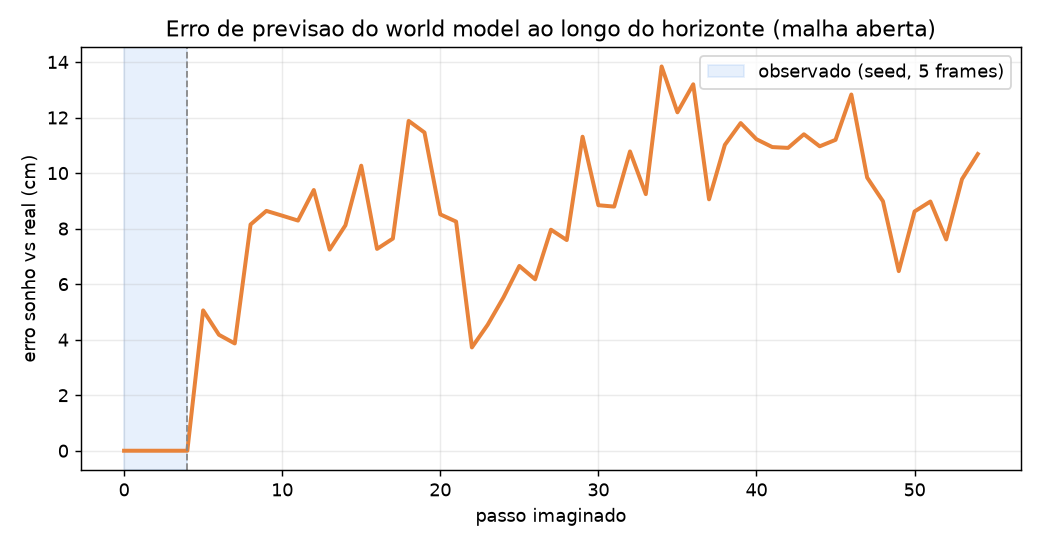
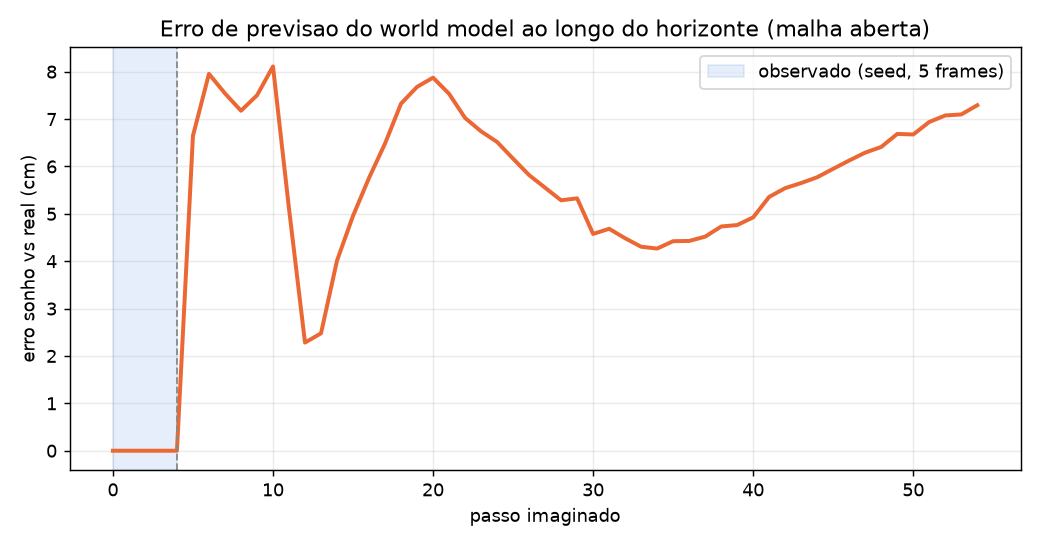
docs(gifs): new gifs

diff --git a/eval/rollout_dreamer.py b/eval/rollout_dreamer.py
@@ -1,0 +1,86 @@
+"""Render the trained Dreamer (world model) policy reaching -> figures/dreamer_ur5e_reach.gif.
+
+Uses a deterministic latent (obs_step sample=False) + action EMA + freeze on
+target, so the rendered arm is smooth (the raw stochastic latent jitters).
+
+Paths via env vars (see dreamer/README.md):
+  WMA_ENVS, WMA_DREAMER, WMA_MENAGERIE, WMA_DREAMER_CKPT
+"""
+import os, sys, argparse, pathlib
+os.environ.setdefault("MUJOCO_GL", "glfw")
+REPO = pathlib.Path(__file__).resolve().parents[1]
+os.environ.setdefault("WMA_ENVS", str(REPO / "envs"))
+DV = os.environ.get("WMA_DREAMER", str(REPO / "dreamerv3-torch"))
+sys.path.insert(0, DV)
+CKPT = pathlib.Path(os.environ.get(
+    "WMA_DREAMER_CKPT", os.path.join(DV, "logdir", "ur5e_state", "ur5e_state_final.pt")))
+
+import numpy as np, torch, mujoco
+import ruamel.yaml as yaml
+from PIL import Image
+import tools
+import envs.ur5e as ur5e
+from dreamer import Dreamer
+
+configs = yaml.safe_load((pathlib.Path(DV) / "configs.yaml").read_text())
+def rupdate(b, u):
+    for k, v in u.items():
+        if isinstance(v, dict) and k in b: rupdate(b[k], v)
+        else: b[k] = v
+defaults = {}
+for name in ["defaults", "ur5e_proprio"]:
+    rupdate(defaults, configs[name])
+p = argparse.ArgumentParser()
+for k, v in sorted(defaults.items()):
+    p.add_argument(f"--{k}", type=tools.args_type(v), default=v)
+config = p.parse_args([]); config.num_actions = 6
+config.device = "cuda" if torch.cuda.is_available() else "cpu"
+dev = config.device
+class DL: step = 0
+
+env = ur5e.UR5eState(seed=5); u = env._u
+agent = Dreamer(env.observation_space, env.action_space, config, DL(), None).to(dev)
+agent.requires_grad_(False)
+agent.load_state_dict(torch.load(CKPT, map_location=dev)["agent_state_dict"])
+agent.eval()
+wm, actor = agent._wm, agent._task_behavior.actor
+blank = np.zeros((16, 16, 3), np.uint8)
+ren = mujoco.Renderer(u.model, 480, 480)
+
+TARGETS = [[0.42, -0.05, 0.40], [0.40, -0.28, 0.30], [0.35, -0.15, 0.38], [0.48, -0.10, 0.34]]
+def batch(o): return {k: np.array([v]) for k, v in o.items()}
+def frame():
+    ren.update_scene(u.data, camera="cam"); return ren.render()
+
+gif, dists = [], []
+for ep in range(4):
+    env.reset()
+    tgt = np.array(TARGETS[ep % len(TARGETS)]); u._target = tgt; u.data.mocap_pos[0] = tgt
+    mujoco.mj_forward(u.model, u.data)
+    obs = env._obs(u._get_obs(), True, False)
+    prev_lat, prev_act = None, torch.zeros(1, 6, device=dev)
+    a_smooth, a_hold, near = None, None, 0
+    with torch.no_grad():
+        for t in range(80):
+            data = wm.preprocess(batch(obs)); embed = wm.encoder(data)
+            lat, _ = wm.dynamics.obs_step(prev_lat, prev_act, embed, data["is_first"], sample=False)
+            a = actor(wm.dynamics.get_feat(lat)).mode()[0].cpu().numpy()
+            a_smooth = a if a_smooth is None else 0.5 * a_smooth + 0.5 * a
+            dist = float(np.linalg.norm(u._ee() - u._target))
+            if dist < 0.05:
+                near += 1
+                if near >= 3 and a_hold is None:
+                    a_hold = a_smooth.copy()
+            else:
+                near = 0; a_hold = None
+            cmd = a_hold if a_hold is not None else a_smooth
+            obs, _, _, _ = env.step(cmd)
+            prev_lat = {k: v.detach() for k, v in lat.items()}
+            prev_act = torch.tensor([cmd], dtype=torch.float32, device=dev)
+            gif.append(Image.fromarray(frame()))
+    dists.append(float(np.linalg.norm(u._ee() - u._target)))
+    print(f"ep {ep}: dist final {dists[-1]:.3f} m")
+
+out = REPO / "figures" / "dreamer_ur5e_reach.gif"
+gif[0].save(out, save_all=True, append_images=gif[1:], duration=55, loop=0)
+print("dist media:", round(float(np.mean(dists)), 3), "m -> saved", out)

diff --git a/eval/rollout_sac.py b/eval/rollout_sac.py
@@ -1,4 +1,8 @@
-"""Render the trained SAC policy reaching on the UR5e -> figures/sac_ur5e_reach.gif."""
+"""Render the trained SAC policy reaching on the UR5e -> figures/sac_ur5e_reach.gif.
+
+Applies action smoothing (EMA) + a freeze once on target, so the rendered arm
+moves smoothly instead of jittering around the goal.
+"""
 import os, sys, pathlib
 os.environ.setdefault("MUJOCO_GL", "glfw")
 REPO = pathlib.Path(__file__).resolve().parents[1]
@@ -8,6 +12,9 @@ from PIL import Image
 from stable_baselines3 import SAC
 from ur5e_reach import UR5eReachEnv
 
+# fixed, camera-facing, reachable targets so the ball is always visible and reached
+TARGETS = [[0.42, -0.05, 0.40], [0.40, -0.28, 0.30], [0.35, -0.15, 0.38], [0.48, -0.10, 0.34]]
+EMA = 0.5                  # light action low-pass (reaches well, less jitter)
 model = SAC.load(str(REPO / "results" / "sac_ur5e"), device="cpu")
 env = UR5eReachEnv()
 m, d = env.unwrapped.model, env.unwrapped.data
@@ -16,18 +23,33 @@ ren = mujoco.Renderer(m, 480, 480)
 def frame():
     ren.update_scene(d, camera="cam"); return ren.render()
 
-gif, dists = [], []
+gif, dists, jitter = [], [], []
 for ep in range(4):
-    obs, _ = env.reset(seed=ep)
+    env.reset(seed=ep)
+    tgt = np.array(TARGETS[ep % len(TARGETS)]); env._target = tgt; d.mocap_pos[0] = tgt
+    mujoco.mj_forward(m, d); obs = env._get_obs()
+    a_smooth, a_hold, near = None, None, 0
     info = {"dist": None}
-    for _ in range(60):
+    for _ in range(80):
         a, _ = model.predict(obs, deterministic=True)
-        obs, r, term, trunc, info = env.step(a)
+        a_smooth = a if a_smooth is None else EMA * a_smooth + (1 - EMA) * a
+        dist = float(np.linalg.norm(env._ee() - env._target))
+        if dist < 0.05:                         # reached -> settle a few frames, then freeze
+            near += 1
+            if near >= 3 and a_hold is None:
+                a_hold = a_smooth.copy()
+        else:
+            near = 0; a_hold = None              # drifted out -> re-engage
+        cmd = a_hold if a_hold is not None else a_smooth
+        obs, r, term, trunc, info = env.step(cmd)
         gif.append(Image.fromarray(frame()))
+        if dist < 0.1:                           # tremble proxy: joint speed near target
+            jitter.append(float(np.linalg.norm(d.qvel[:6])))
         if term or trunc:
             break
     dists.append(info["dist"])
     print(f"ep {ep}: dist final {info['dist']:.3f} m")
+print("tremor (|qvel| medio perto do alvo, menor=melhor):", round(float(np.mean(jitter)), 3))
 
 out = REPO / "figures" / "sac_ur5e_reach.gif"
 gif[0].save(out, save_all=True, append_images=gif[1:], duration=55, loop=0)

diff --git a/eval/dream_vs_real.py b/eval/dream_vs_real.py
@@ -16,6 +16,7 @@ REPO = pathlib.Path(__file__).resolve().parents[1]
 os.environ.setdefault("WMA_ENVS", str(REPO / "envs"))
 DV = os.environ.get("WMA_DREAMER", str(REPO / "dreamerv3-torch"))
 sys.path.insert(0, DV)
+sys.path.insert(0, os.environ["WMA_ENVS"])
 CKPT = pathlib.Path(os.environ.get(
     "WMA_DREAMER_CKPT", os.path.join(DV, "logdir", "ur5e_state", "ur5e_state_final.pt")))
 
@@ -57,19 +58,30 @@ def batch(o): return {k: np.array([v]) for k, v in o.items()}
 def decode(l):
     return wm.heads["decoder"](wm.dynamics.get_feat(l).unsqueeze(1))["state"].mode()[0, 0].cpu().numpy()
 
-# Phase 1: real rollout with the policy (record qpos, actions, ee)
-obs = env.reset(); target = u._target.copy()
+# fixed, camera-facing, reachable target (visible in the render)
+FRONT_TARGET = np.array([0.35, -0.15, 0.38])
+
+# Phase 1: real rollout with the policy (record qpos, smoothed actions, ee).
+# The applied action is EMA-smoothed so the rendered real arm moves smoothly
+# (the raw policy jitters at the target); imagination replays the same actions.
+env.reset()
+target = FRONT_TARGET.copy(); u._target = target; u.data.mocap_pos[0] = target
+mujoco.mj_forward(u.model, u.data)
+obs = env._obs(u._get_obs(), True, False)
 obss, acts, rqpos, ree = [obs], [], [], []
 prev_lat, prev_act = None, torch.zeros(1, 6, device=dev)
+a_smooth = None
 with torch.no_grad():
     for t in range(T):
         data = wm.preprocess(batch(obs)); embed = wm.encoder(data)
         lat, _ = wm.dynamics.obs_step(prev_lat, prev_act, embed, data["is_first"], sample=False)
-        a = actor(wm.dynamics.get_feat(lat)).mode()
+        a = actor(wm.dynamics.get_feat(lat)).mode()[0].cpu().numpy()
+        a_smooth = a if a_smooth is None else 0.5 * a_smooth + 0.5 * a
         rqpos.append(u.data.qpos[:6].copy()); ree.append(u._ee().copy())
-        a_np = a[0].cpu().numpy(); acts.append(a_np)
-        obs, _, _, _ = env.step(a_np); obss.append(obs)
-        prev_lat = {k: v.detach() for k, v in lat.items()}; prev_act = a.detach()
+        acts.append(a_smooth.copy())
+        obs, _, _, _ = env.step(a_smooth); obss.append(obs)
+        prev_lat = {k: v.detach() for k, v in lat.items()}
+        prev_act = torch.tensor([a_smooth], dtype=torch.float32, device=dev)
 
 # Phase 2: seed on first K real frames, then imagine OPEN-LOOP
 prev_lat, prev_act = None, torch.zeros(1, 6, device=dev)

diff --git a/README.md b/README.md
@@ -75,9 +75,10 @@ A curva de erro compara, a cada passo, a pose imaginada com a real. Os
 **primeiros 5 passos são o "seed"** (zona em azul): ali o sonho é inicializado com
 os frames reais, então o erro é ~0 **por construção** — isso não é mérito do
 modelo. A partir do passo 5 o modelo imagina em malha aberta, e aí sim o número é
-informativo: o erro cresce mas fica **limitado (~10 cm) e não diverge** ao longo de
-dezenas de passos, degradando além do horizonte de treino (~15 passos) — o que
-justifica por que o Dreamer imagina em horizontes curtos e re-ancora na realidade.
+informativo: o erro cresce mas fica **limitado (poucos centímetros, ~6 cm) e não
+diverge** ao longo de dezenas de passos, degradando além do horizonte de treino
+(~15 passos) — o que justifica por que o Dreamer imagina em horizontes curtos e
+re-ancora na realidade.
 
 ![Erro de previsão](figures/prediction_error.png)
 
